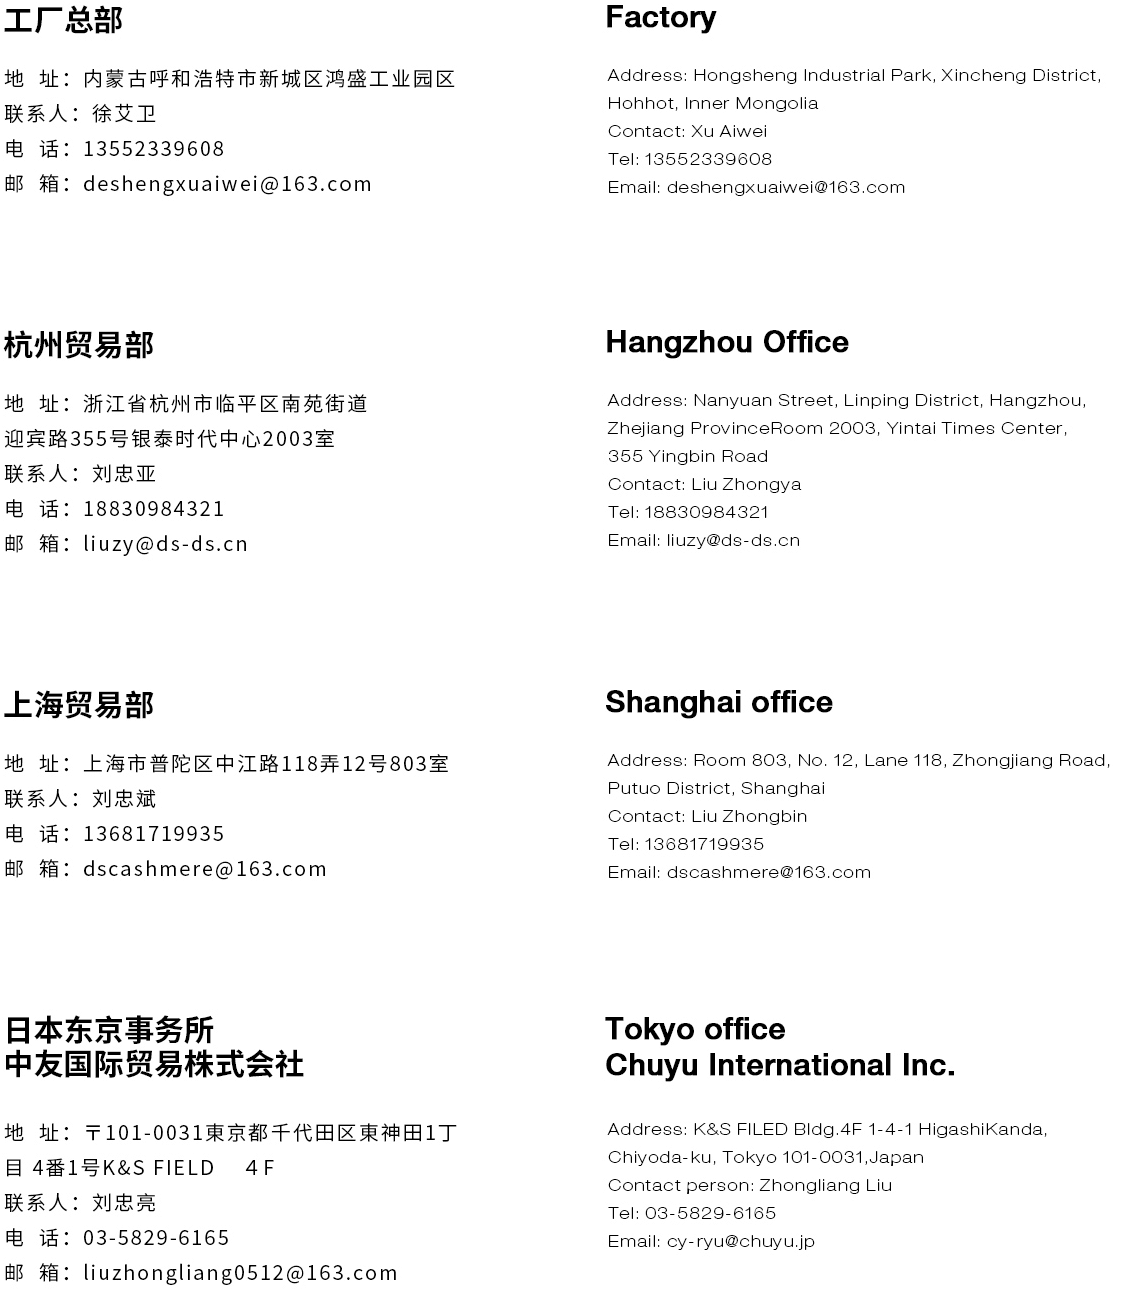
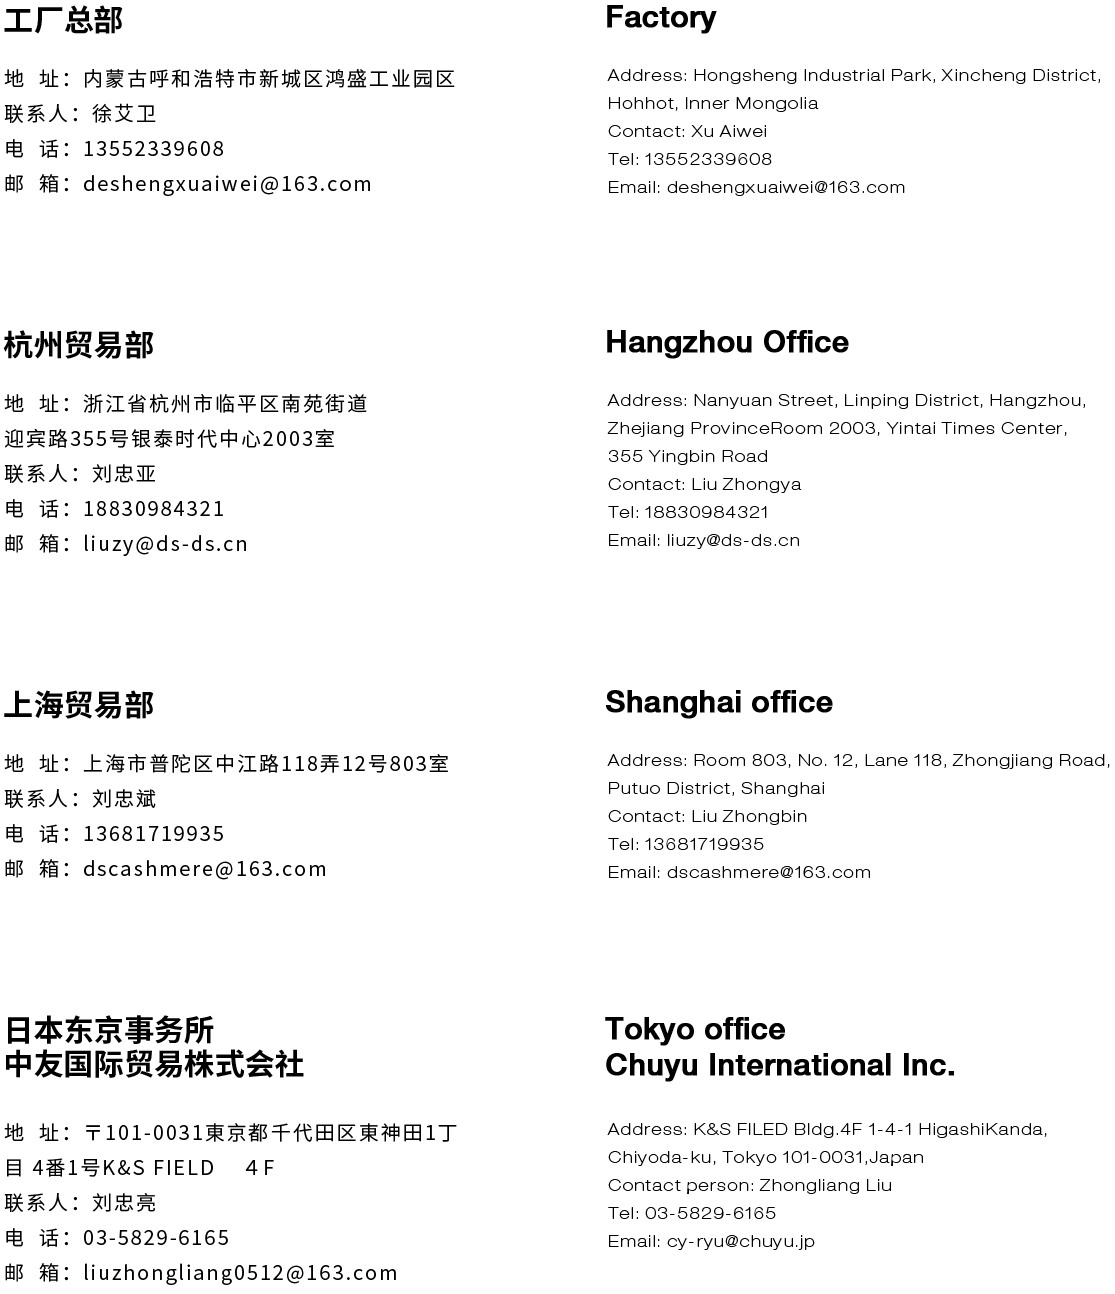
feat: 联系人

diff --git a/css/style.css b/css/style.css
@@ -622,8 +622,8 @@ p.logo_w3l_agile_caption {
 }
 
 .lianxi-img {
-    width: 748px;
-    height: 864px;
+    width: 52vw;
+    object-fit: contain;
 }
 
 .w3-heading-all h3 {
